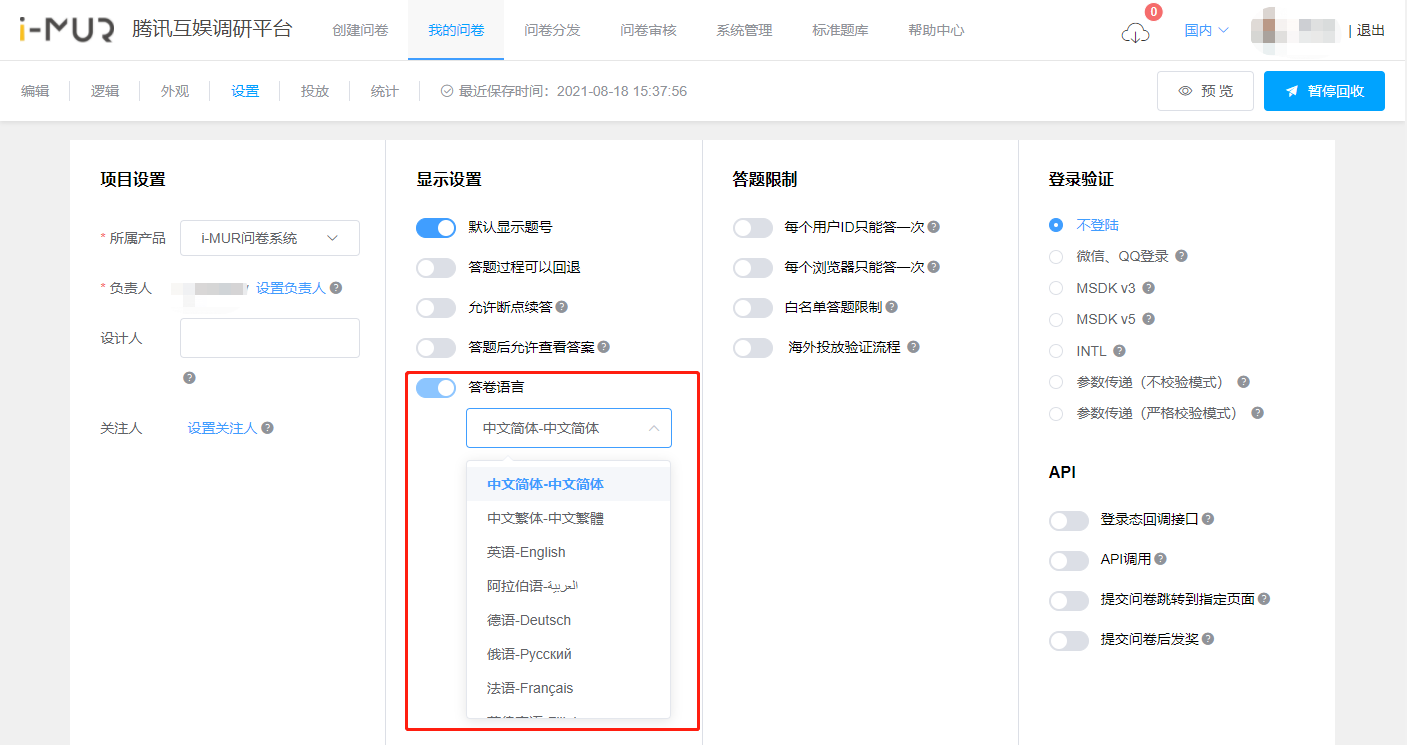
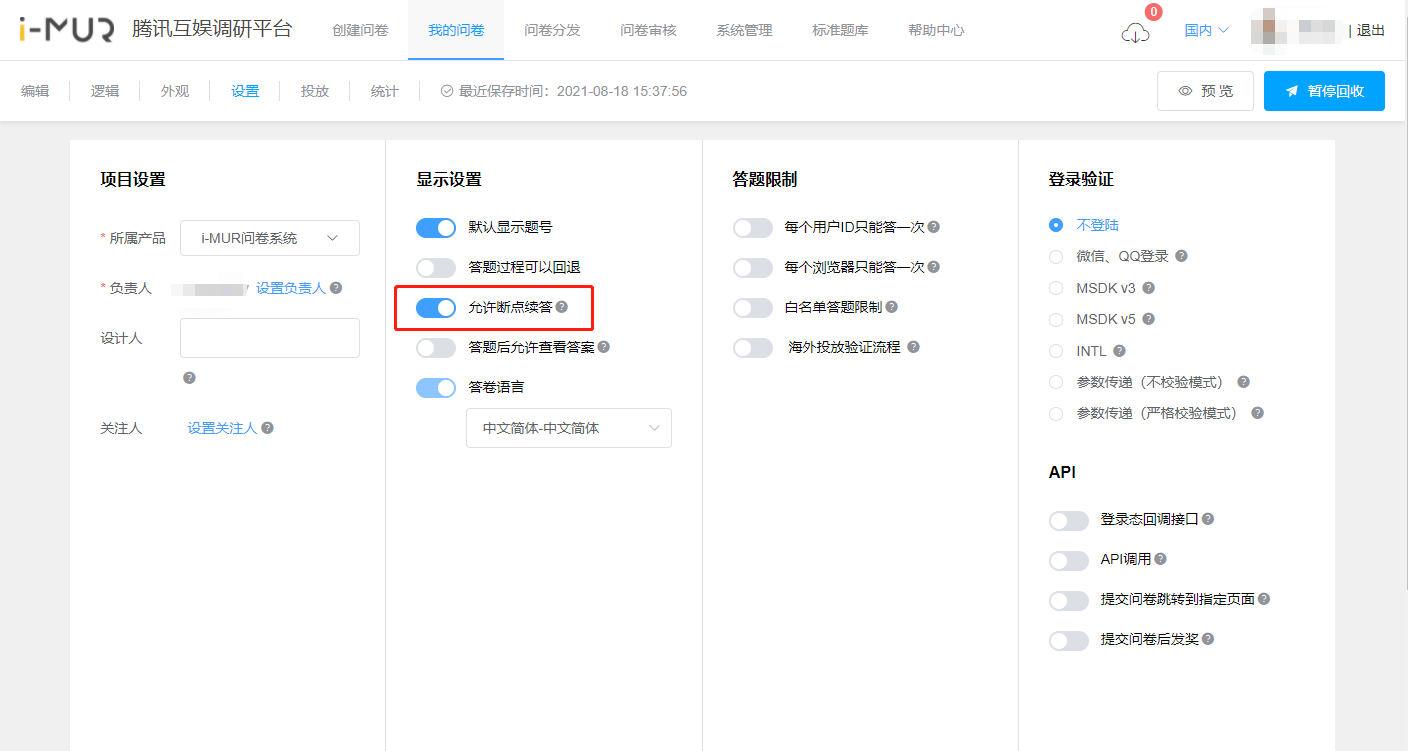
GitBook: [master] one page and 8 assets modified

diff --git a/cao-zuo-zhi-yin/wen-juan-she-zhi/xian-shi-she-zhi.md b/cao-zuo-zhi-yin/wen-juan-she-zhi/xian-shi-she-zhi.md
@@ -6,7 +6,7 @@
 
 此功能默认开启，关闭后，答题端将不显示题号。
 
-![&#x9ED8;&#x8BA4;&#x663E;&#x793A;&#x9898;&#x53F7;](../../.gitbook/assets/image%20%28701%29.png)
+![&#x9ED8;&#x8BA4;&#x663E;&#x793A;&#x9898;&#x53F7;](../../.gitbook/assets/image%20%28705%29.png)
 
 ![&#x7B54;&#x9898;&#x7AEF;-&#x9ED8;&#x8BA4;&#x663E;&#x793A;&#x9898;&#x53F7;&#x529F;&#x80FD;&#x5F00;&#x542F;](../../.gitbook/assets/image%20%28268%29.png)
 
@@ -16,17 +16,43 @@
 
 答题过程可以回退指的是，在答题端显示上一页的回退按钮。此功能默认关闭，在答题端不显示上一页的的回退按钮；开启后，在页面下方增加上一页的回退按钮。
 
-![&#x7B54;&#x9898;&#x56DE;&#x9000;&#x8BBE;&#x7F6E;](../../.gitbook/assets/image%20%28699%29.png)
+![&#x7B54;&#x9898;&#x56DE;&#x9000;&#x8BBE;&#x7F6E;](../../.gitbook/assets/image%20%28702%29.png)
 
 ![&#x7B54;&#x9898;&#x7AEF;-&#x4E0D;&#x652F;&#x6301;&#x56DE;&#x9000;](../../.gitbook/assets/image%20%28461%29.png)
 
 ![&#x7B54;&#x9898;&#x7AEF;-&#x7B54;&#x9898;&#x8FC7;&#x7A0B;&#x53EF;&#x4EE5;&#x56DE;&#x9000;](../../.gitbook/assets/image%20%28236%29.png)
 
+## 断点续答
+
+问卷提供本地缓存答案机制，启用此功能后，如答题者在答题中途退出，重新访问问卷可选择继续回答或重新填答。
+
+![&#x8BBE;&#x7F6E;&#x5141;&#x8BB8;&#x65AD;&#x70B9;&#x7EED;&#x7B54;](../../.gitbook/assets/image%20%28700%29.png)
+
+## 答题后查看答案
+
+答题者提交答卷后，可选择查看已填答内容；或者已登录答题的用户，提交答卷后重新打开问卷可查看已填答内容。适用于线下访谈需要根据问卷答案追问/讨论的场景。
+
+![&#x95EE;&#x5377;&#x8BBE;&#x7F6E;&#xFF1A;&#x7B54;&#x9898;&#x540E;&#x5141;&#x8BB8;&#x67E5;&#x770B;&#x7B54;&#x6848;](../../.gitbook/assets/image%20%28701%29.png)
+
+查看答案功能当前灰度试用中，需手动修改投放链接以启用新版答题机制（原投放链接无法使用查看答案功能）。修改方法如下：
+
+{% hint style="info" %}
+#### **在域名xxx.com/后添加v2**
+
+旧版：https://in.weisurvey.com/?sid=6108a011fbdd7034141e5892
+
+新版：https://in.weisurvey.com**/v2**?sid=6108a011fbdd7034141e5892
+{% endhint %}
+
+![&#x67E5;&#x770B;&#x7B54;&#x6848;&#x6309;&#x94AE;](../../.gitbook/assets/image%20%28706%29.png)
+
+![&#x67E5;&#x770B;&#x7B54;&#x6848;&#x6548;&#x679C;](../../.gitbook/assets/image%20%28703%29.png)
+
 ## 答卷语言
 
 答卷语言指的是，在答题端中显示的提示语语种，默认为中文简体，可根据实际需要设置其他语种。
 
-![&#x7B54;&#x5377;&#x8BED;&#x8A00;&#x8BBE;&#x7F6E;](../../.gitbook/assets/image%20%28700%29.png)
+![&#x7B54;&#x5377;&#x8BED;&#x8A00;&#x8BBE;&#x7F6E;](../../.gitbook/assets/image%20%28704%29.png)
 
 {% hint style="info" %}
 提示语支持语种：
